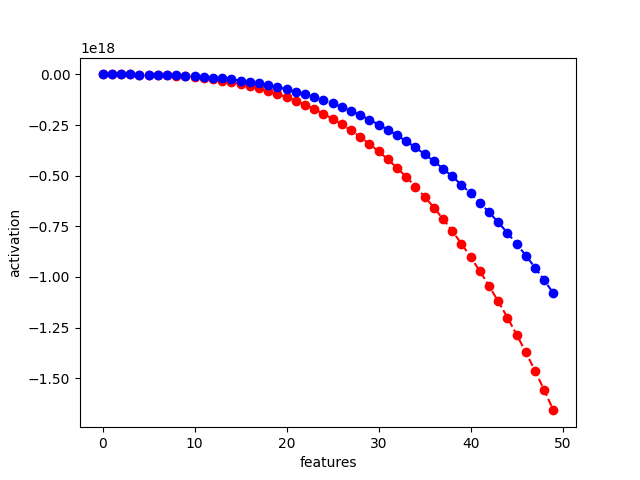
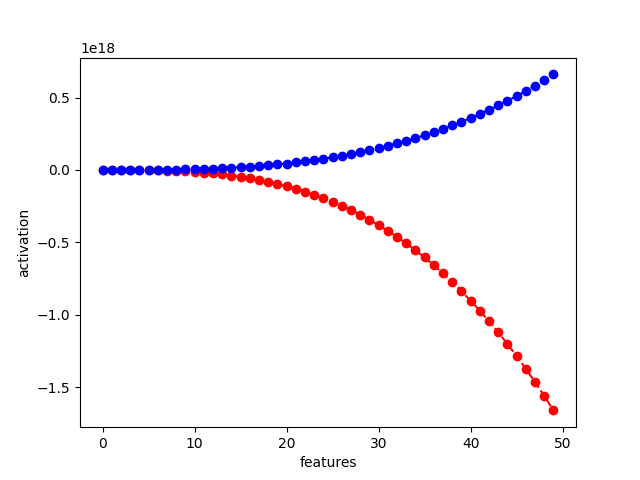
found mertens bug, need to find spline interpol

diff --git a/src/testing_and_output.py b/src/testing_and_output.py
@@ -115,32 +115,21 @@ def reset_model_weights(layer):
 
 
 def model_create_equation(model, names, dataset, in_shape, test_rounds,
-                          imagenet_ds=False):
+                          root='./datasets'):
     # check optional args
     # create prerequisites
+    base_transform = v2.Compose([v2.ToImage(),
+                                v2.ToDtype(torch.float32,
+                                           scale=True),
+                                v2.Resize([in_shape, in_shape]),
+                                v2.RGB()])
+
+    dataset_train = dataset(root)
     tests = []
     if model is not None:
         # works for IMAGENET MODEL ONLY
-        dataset.target_transform = tr.ClassLabelWrapper()
-        min_rgb_channels = 3
-        channels = len([len(d[0].size()) for d in dataset
-                        if len(d[0].size()) <= min_rgb_channels])
+        dataset_train.target_transform = tr.ClassLabelWrapper()
 
-        # if grayscale convert to rgb
-        if channels > 0:
-            print("GRAY")
-            # compute transform eagerly
-            if dataset.transform is not None:
-                dataset.transform = v2.Compose([dataset.transform,
-                                                v2.RGB()])
-            else:
-                dataset.transform = v2.RGB()
-
-        from torch.utils.data import random_split
-        [train_dataset, test_dataset] = random_split(dataset, [0.7, 0.3],
-                                                     generator=ca.GENERATOR)
-
-        train_dataset.dataset = copy(dataset)
         # calculate fft + shape
         layers = []
 
@@ -171,10 +160,14 @@ def model_create_equation(model, names, dataset, in_shape, test_rounds,
         from src.training import make_spline
         bspline = make_spline(sols[-1])
         from src.meterns import HDRMaskTransform
-        train_dataset.transforms = v2.Compose([
-                train_dataset.dataset.transforms,
-                HDRMaskTransform(bspline)
+        new_transforms = v2.Compose([
+                base_transform,
+                HDRMaskTransform(bspline, save_vid=True, names=names)
                 ])
+
+        dataset_exp = dataset('datasets/',
+                              transform=new_transforms,
+                              target_transform=tr.ClassLabelWrapper)
 
         for i in range(test_rounds):
             # should we wipe the model every i in TRAIN_SIZE or leave it?
@@ -191,7 +184,7 @@ def model_create_equation(model, names, dataset, in_shape, test_rounds,
 
             test_model = tr.interpolate_model_train(
                 test_model,
-                train_dataset, i,
+                dataset_exp, i,
                 names)
 
             # and testing
@@ -202,7 +195,7 @@ def model_create_equation(model, names, dataset, in_shape, test_rounds,
 
             # onehots labels
             from torch.utils.data import DataLoader
-            test_loader = DataLoader(test_dataset, batch_size=me.BATCH_SIZE)
+            test_loader = DataLoader(dataset_train, batch_size=me.BATCH_SIZE)
 
             # safety code so no training happens
             model.eval()
@@ -277,12 +270,13 @@ def model_test_batch(root, res, rounds, names, download=True, seed=0):
         print("DATASET {} of {} KEYINTERRUPT TO SKIP".format(i, len(datasets)))
         try:
             print("USING {} DATASET, LEN {}".format(ds.__class__.__name__,
-                                                    len(ds)))
+                                                    len(ds(root))))
             model = get_model(names[0], weights=names[1])
             model.to(ca.TORCH_DEVICE)
             model.eval()
             test = None
-            out = model_create_equation(model, names, ds, res, rounds)
+            out = model_create_equation(model, names, ds, res, rounds,
+                                        root=root)
             test = {
                 'dataset': ds.__class__.__name__,
                 'ds_len': len(ds),

diff --git a/src/meterns.py b/src/meterns.py
@@ -31,6 +31,8 @@ import numpy as np
 # https://onlinelibrary.wiley.com/doi/abs/10.1111/j.1467-8659.2008.01171.x
 SIGMA = 0.2
 
+DS_COUNT = 0
+
 
 def round_up_to_odd(f):
     return np.ceil(f) // 2 * 2 + 1
@@ -62,6 +64,26 @@ class HDRDummyTransform(Transform):
         return t_mask_samples
 
 
+def _tovid(imgs, name, w, h):
+    import ffmpeg
+    vid_p = (
+        ffmpeg
+        .input('pipe:', format='rawvideo', pix_fmt='rgb24', s='{}x{}'.
+               format(w, h))
+        .output(name+".mp4", pix_fmt='rgb24')
+        .overwrite_output()
+        .run_async(pipe_stdin=True)
+    )
+
+    for im in imgs:
+        img = im.numpy()
+        img = img.astype(np.uint8)
+        vid_p.stdin.write(img.tobytes())
+
+    vid_p.stdin.close()
+    vid_p.wait()
+
+
 class HDRMaskTransform(Transform):
     """Hdr resample the splined solved sample
 
@@ -71,8 +93,9 @@ class HDRMaskTransform(Transform):
 
     # QUALITY MEASURES
     def quality(self, img):
-        gray = img
+        gray = img.flip([i for i in range(0, len(img.size()))])
         if len(img.size()) >= 3:
+            print(gray.shape)
             gray = Grayscale(num_output_channels=3)(gray)
 
         # use calculate second order deriviatives (laplacian) by autograd
@@ -124,12 +147,14 @@ class HDRMaskTransform(Transform):
 
         return image
 
-    def __init__(self, spline):
+    def __init__(self, spline, save_vid=False, names=[]):
         self.spline = spline
+        self.save_vid = save_vid
+        self.names = names
         super().__init__()
 
     # no params needed
-    def transform(self, sample, _):
+    def __call__(self, sample):
         # WE HAVE TO USE NUMPY HERE SO THAT TORCH DOES NOT FORK JAX
         mask_samples = self.spline(sample)
         t_mask_samples = torch.tensor(mask_samples)
@@ -144,6 +169,11 @@ class HDRMaskTransform(Transform):
         # check model, reshape inputs
         mask = t_mask_samples.le(solved_samples)
         imgs = torch.where(mask, solved_samples, 0)
+
+        if self.save_vid:
+            _tovid(imgs, "{}_{}".format("".join(self.names),
+                                           DS_COUNT),
+                   imgs[0].shape[1], imgs[0].shape[2])
 
         # kernel has to be odd for guass to work
         hdr = self.meterns(imgs, next_odd_if_even(len(imgs.shape)))

diff --git a/src/model_extractor.py b/src/model_extractor.py
@@ -21,8 +21,6 @@
    Torch dataset wrangler
 """
 
-import torch
-from torchvision.transforms import v2
 from torchvision import datasets
 
 import numpy as np
@@ -124,19 +122,14 @@ def download_data(dataset_root, res, download=True):
 
         if sig.parameters.get("download") is not None:
             try:
-                dataset = None
                 if "download" in args_ds:
-                    dataset = datasets.__dict__[ds_name](
+                    datasets.__dict__[ds_name](
                         dataset_root, download)
                 elif "download" in kwargs_ds:
-                    dataset = datasets.__dict__[ds_name](
+                    datasets.__dict__[ds_name](
                         dataset_root, download=download)
 
-                dataset.transform = v2.Compose([v2.ToImage(),
-                                                v2.ToDtype(torch.float32,
-                                                           scale=True),
-                                                v2.Resize([res, res])])
-                ds_list.append(dataset)
+                ds_list.append(datasets.__dict__[ds_name])
             except Exception as e:
                 print("dataset download did not work not appending...")
                 print("err: " + str(e))

diff --git a/src/training.py b/src/training.py
@@ -41,6 +41,7 @@ import torch.nn.functional as F
 from src.model_extractor import BATCH_SIZE
 DL_WORKERS = 1
 
+torch.compiler.set_stance("force_eager")
 
 def seed_worker(worker_id):
     worker_seed = torch.initial_seed() % 2**32
@@ -267,4 +268,4 @@ def make_spline(sols):
     [spline, u] = make_splprep(lu_decomp[0].T, k=sum(interpol_shape) + 1)
 
     # don't use ins here as is jax array, please use numpy
-    return FastSplineEvaluator(spline.tck, sols[0])
+    return spline
